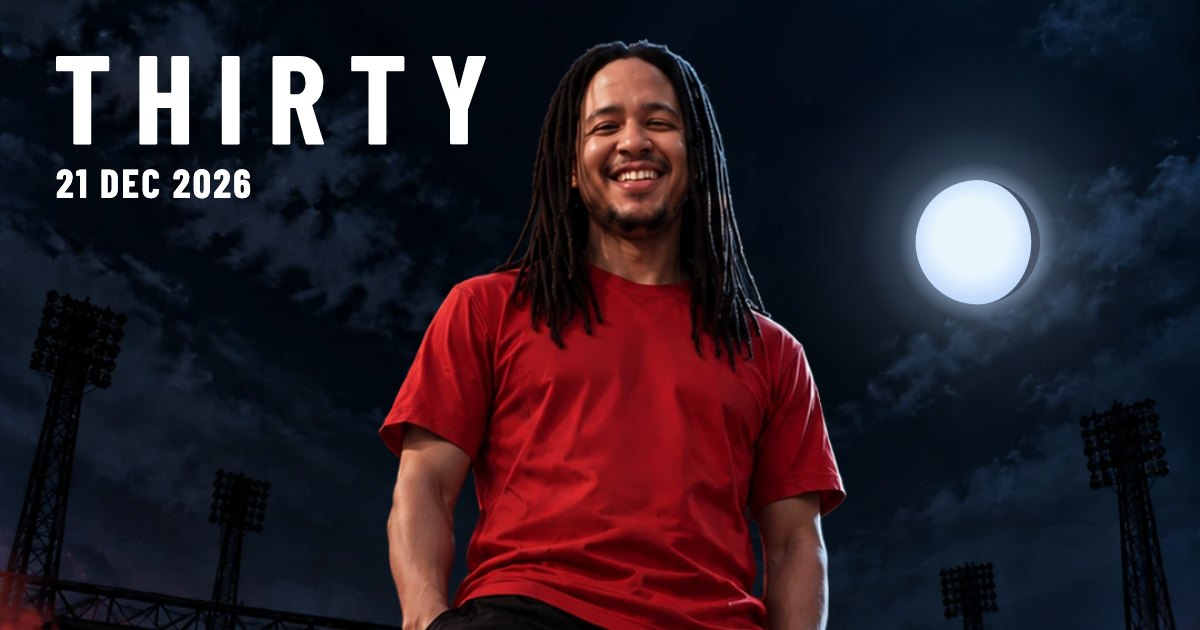
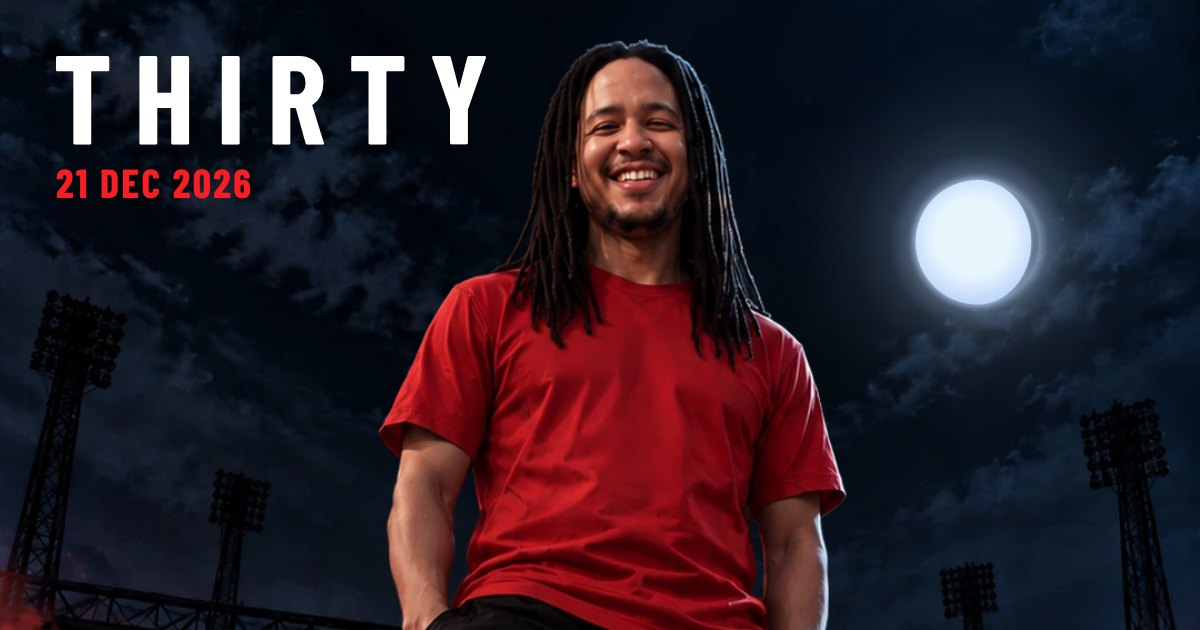
feat(poster): set the OG date in poster-red
Lux move 7: the OG gets a small amount of the hot colour. "21 DEC 2026"
is set in poster-red (#F81E24) and public/og.jpg is re-rendered. The
band is unchanged.

diff --git a/src/poster/og.ts b/src/poster/og.ts
@@ -52,7 +52,7 @@ export function drawOg(ctx: CanvasRenderingContext2D, image: (name: string) => C
   const title = image("thirty")
   if (title) ctx.drawImage(title, box.x, box.y, box.w, box.h)
   ctx.font = `700 ${OG_TITLE.dateSize}px ${LETTERING_FONT}`
-  ctx.fillStyle = INK.text
+  ctx.fillStyle = INK.posterRed
   ctx.textBaseline = "middle"
   fillTracked(ctx, OG_DATE, box.x, box.dateY, OG_TITLE.dateSize, OG_TITLE.tracking)
 }
